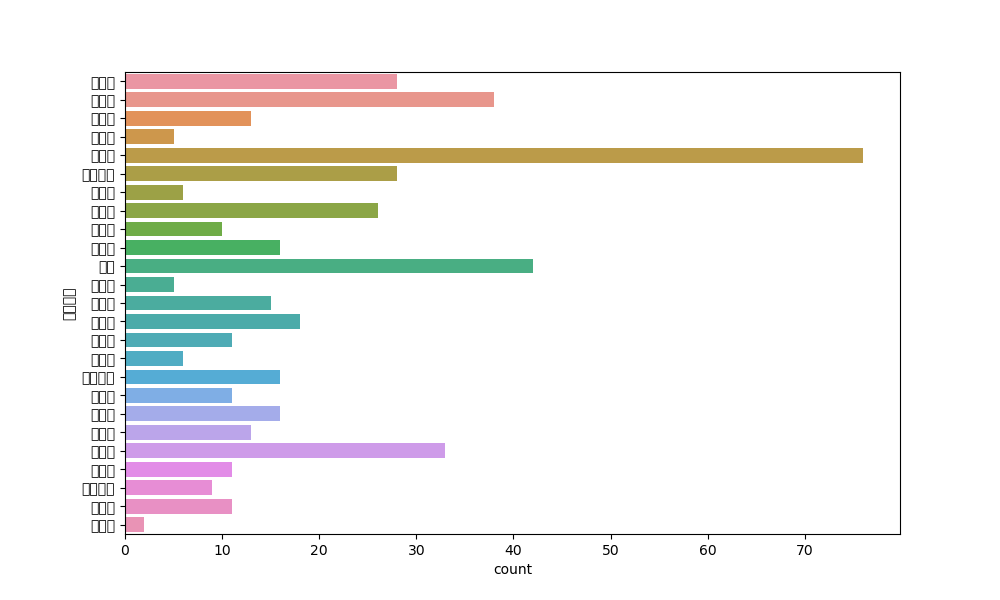
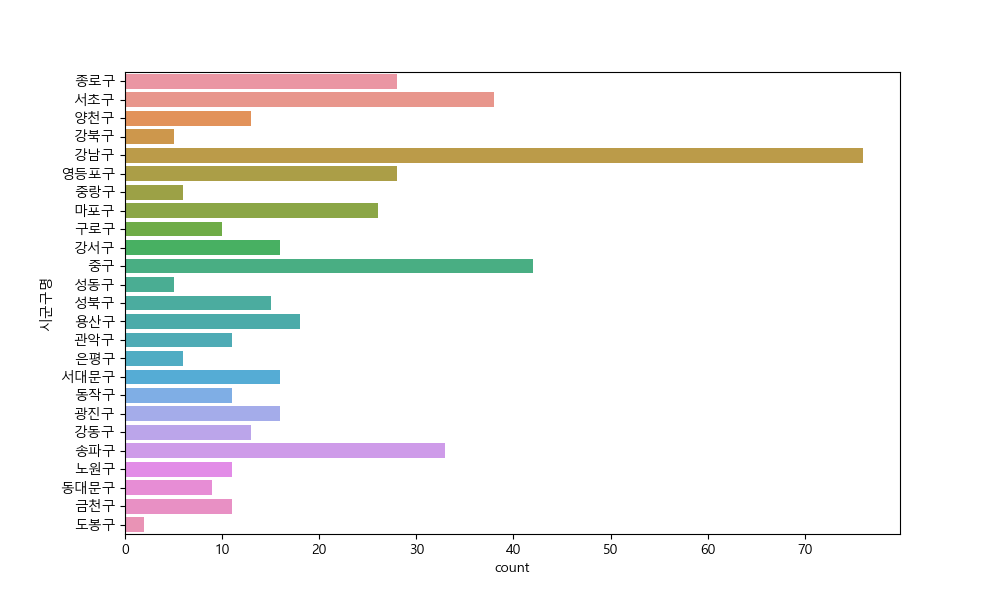
practice starbucks plot and chart

diff --git a/DataFrame_Basic/0729/07291.py b/DataFrame_Basic/0729/07291.py
@@ -9,6 +9,7 @@ import folium
 import warnings
 from glob import glob
 import seaborn as sns
+from  matplotlib import font_manager, rc
 
 # 한글 자연어 처리 (konlpy): 형태소 분석기(Hannanum, Kkma, Komoran, Mecab, Okt 포함)
 
@@ -73,9 +74,6 @@ okt = _okt.Okt()
 # folium.CircleMarker(location = [37.5502, 126.982], radius = 100, popup = '서울', color = 'red', fill_color = 'red', fill_opacity = 0.5).add_to(m)
 # m.save('./map.html')
 
-warnings.filterwarnings(action = 'ignore')
-plt.rc('font', family = 'NanumGothic')
-
 # 하나 이상의 csv파일을 로드해서 하나의 dataframe객체로 병합
 file_names= glob('./data/*.csv')
 
@@ -115,20 +113,34 @@ df_seoul_starbucks .index = range(len(df_seoul_starbucks ))
 # 서울에 있는 스타벅스 점포수를 구별로 출력
 df_seoul_starbucks['시군구명'].value_counts()
 
+font_path="C://Windows//Fonts//malgun.TTF"
+font = font_manager.FontProperties(fname=font_path).get_name()
+plt.rc('font', family=font)
+
 #서울에 있는 구 단위 스타벅스 점포수를 barplot으로 시각화
 plt.figure(figsize = (10, 6))
 plt.title("서울 스타벅스 점포수", fontdict = {"fontsize" : 20 })
 plt.bar(df_seoul_starbucks['시군구명'].value_counts().index, df_seoul_starbucks['시군구명'].value_counts().values)
 plt.xticks(rotation = 'vertical')
-plt.show()
 plt.savefig('starbucks_barplot.png')
+plt.show()
 
 plt.figure(figsize = (10, 6))
-
 sns.countplot(data = df_seoul_starbucks, y = '시군구명')
 plt.savefig('starbucks_countplot.png')
 plt.show()
 
 plt.figure(figsize = (8, 8))
+plt.pie( df_seoul_starbucks['시군구명'].value_counts().values,
+  labels=df_seoul_starbucks['시군구명'].value_counts().index,
+  autopct='%d%%',
+  colors=sns.color_palette('hls', len(df_seoul_starbucks['시군구명'].value_counts().index)),
+  textprops={'fontsize':12})
+    
+plt.axis('equal')
+plt.title('Pie chart for Starbucks count', fontsize = 16, pad = 50)
+plt.savefig('starbucks_piechart.png')
+plt.show()
+
 
 
